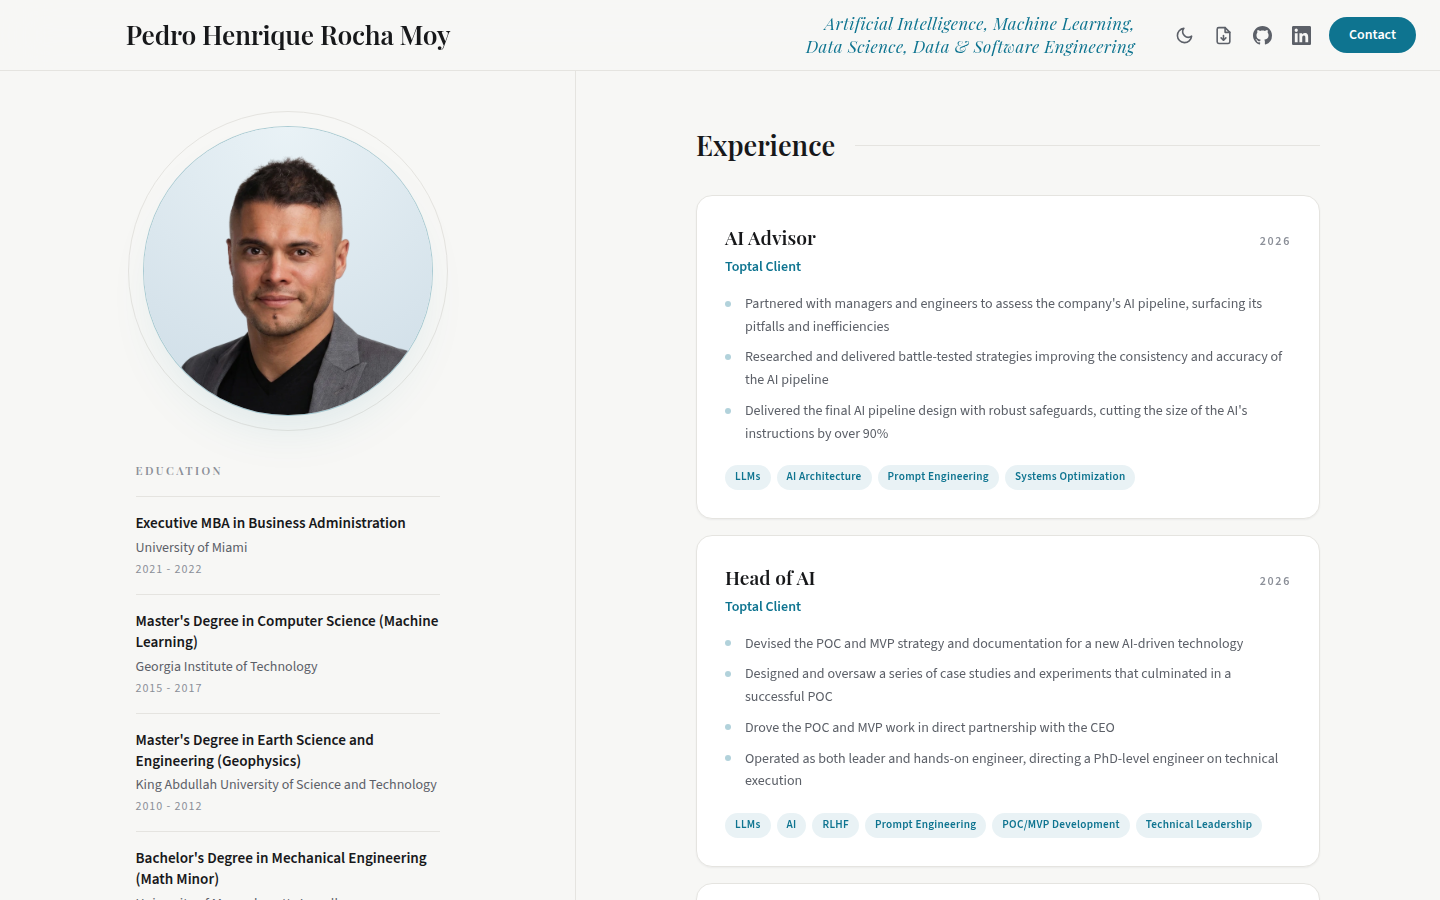
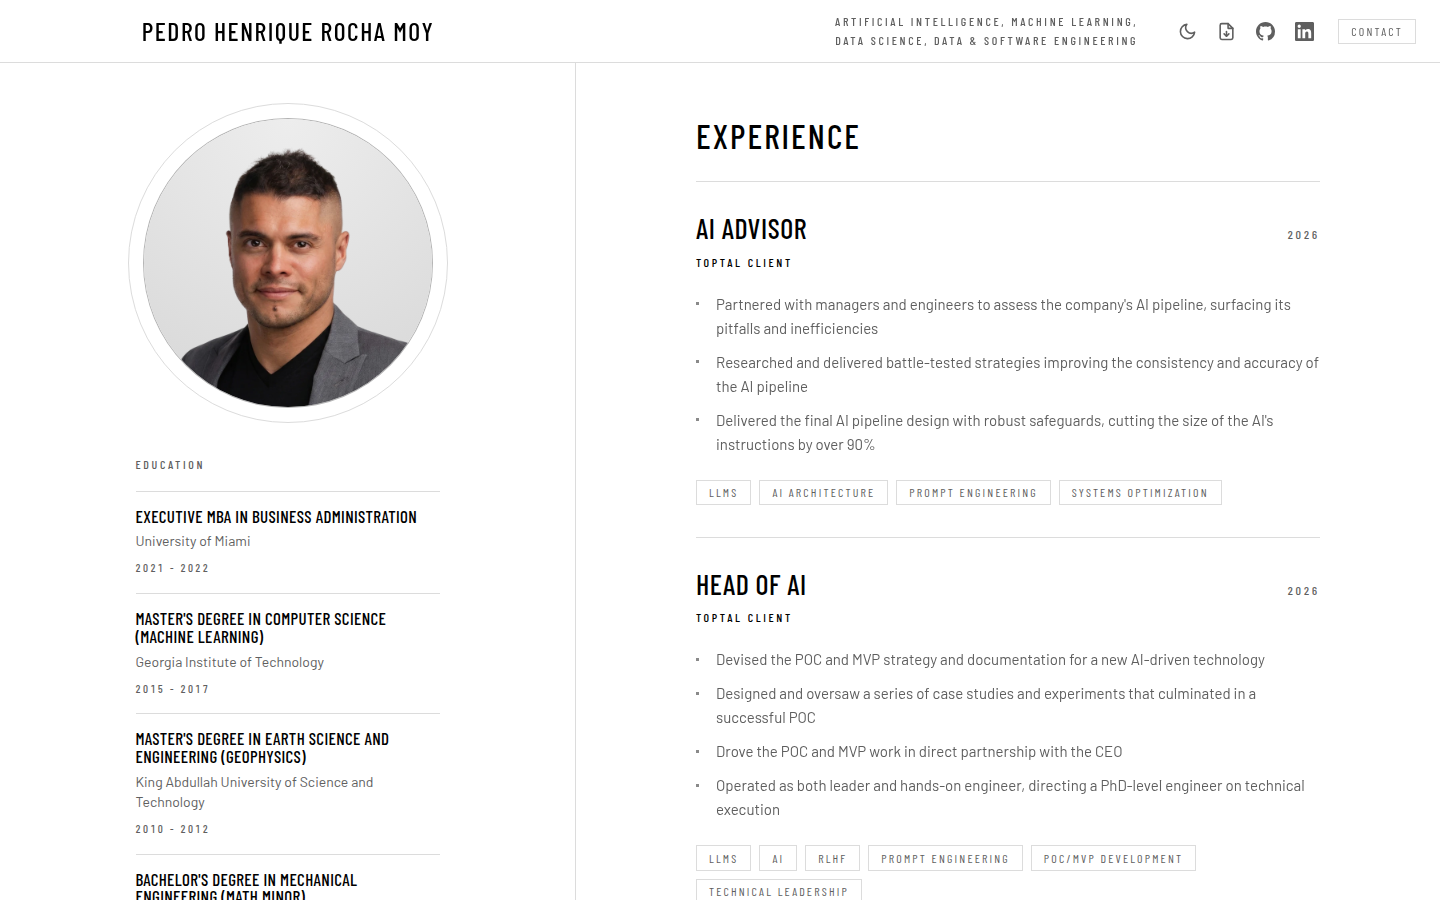
Refine UI styling and support custom Chromium path in Playwright
- Remove redundant hairline rule from section headings to avoid doubled borders with entry dividers
- Adjust mobile navbar font size and tighten entry spacing
- Support PLAYWRIGHT_CHROMIUM_PATH for containerized test environments
- Document shared design system in README and update screenshots

diff --git a/playwright.config.ts b/playwright.config.ts
@@ -14,7 +14,17 @@ export default defineConfig({
   projects: [
     {
       name: 'chromium',
-      use: { ...devices['Desktop Chrome'] },
+      use: {
+        ...devices['Desktop Chrome'],
+        // Containers without a downloadable browser point this at one they have.
+        ...(process.env.PLAYWRIGHT_CHROMIUM_PATH
+          ? {
+              launchOptions: {
+                executablePath: process.env.PLAYWRIGHT_CHROMIUM_PATH,
+              },
+            }
+          : {}),
+      },
     },
   ],
   webServer: {

diff --git a/src/components/SectionHeading.svelte b/src/components/SectionHeading.svelte
@@ -6,9 +6,10 @@
   let { title }: Props = $props();
 </script>
 
-<div class="flex items-baseline gap-5">
-  <h2 class="display text-ink shrink-0 text-[1.75rem] sm:text-[2.125rem]">
-    {title}
-  </h2>
-  <span class="bg-line h-px flex-1" aria-hidden="true"></span>
-</div>
+<!--
+  No rule of its own: the first entry below carries a top hairline, and a second
+  line here would read as a doubled border.
+-->
+<h2 class="display text-ink text-[1.75rem] sm:text-[2.125rem]">
+  {title}
+</h2>

diff --git a/src/components/ExperienceColumn.svelte b/src/components/ExperienceColumn.svelte
@@ -16,7 +16,7 @@
   >
     <SectionHeading title="Experience" />
 
-    <div class="mt-10">
+    <div class="mt-7">
       {#each EXPERIENCE_ENTRIES as entry (entry.title)}
         <article class="entry py-8">
           <div
@@ -48,7 +48,7 @@
 
     <div class="mt-16">
       <SectionHeading title="Portfolio" />
-      <div class="mt-10">
+      <div class="mt-7">
         {#each PORTFOLIO_ENTRIES as entry (entry.title)}
           <article class="entry group py-8">
             <a

diff --git a/src/components/NavBar.svelte b/src/components/NavBar.svelte
@@ -26,7 +26,7 @@
       class="flex min-w-0 flex-1 items-center lg:w-2/5 lg:flex-none lg:justify-center"
     >
       <span
-        class="display text-ink text-[1.05rem] sm:shrink-0 sm:text-2xl sm:whitespace-nowrap lg:text-[1.6rem]"
+        class="display text-ink text-[0.95rem] sm:shrink-0 sm:text-2xl sm:whitespace-nowrap lg:text-[1.6rem]"
         >{PROFILE.name}</span
       >
     </div>

diff --git a/README.md b/README.md
@@ -14,6 +14,16 @@ Captured from the production build; sources in `docs/screenshots/`.
 | Mobile        | ![Mobile, light theme](docs/screenshots/mobile-light.png)               | ![Mobile, dark theme](docs/screenshots/mobile-dark.png)               |
 | Contact modal | ![Contact modal, light theme](docs/screenshots/contact-modal-light.png) | ![Contact modal, dark theme](docs/screenshots/contact-modal-dark.png) |
 
+## Design
+
+The site shares its design system with the
+[rmet-publishing blog](https://rocha-moy-engineering-technology.github.io/rmet-publishing/):
+black ground, Barlow Condensed set in uppercase for display type, Barlow for
+body copy, hairline rules instead of filled cards, square corners, and no accent
+colour. The shared vocabulary lives in `src/app.css` as `display`, `label`,
+`icon-link`, `entry`, `entry-title`, `chip` and `action`; those class names mean
+the same thing on both sites.
+
 ## Features
 
 - Professional experience timeline with role descriptions and technology tags
@@ -29,7 +39,9 @@ Captured from the production build; sources in `docs/screenshots/`.
 
 - **Framework:** Svelte 5 + Vite
 - **Styling:** Tailwind CSS v4
-- **Testing:** Vitest (unit), Playwright (e2e)
+- **Testing:** Vitest (unit), Playwright (e2e). Set `PLAYWRIGHT_CHROMIUM_PATH`
+  to run the end-to-end suite against a supplied Chromium, for example in a
+  container with no downloadable browser; unset, it uses the usual one.
 - **Deployment:** GitHub Pages via GitHub Actions
 
 ## Development
